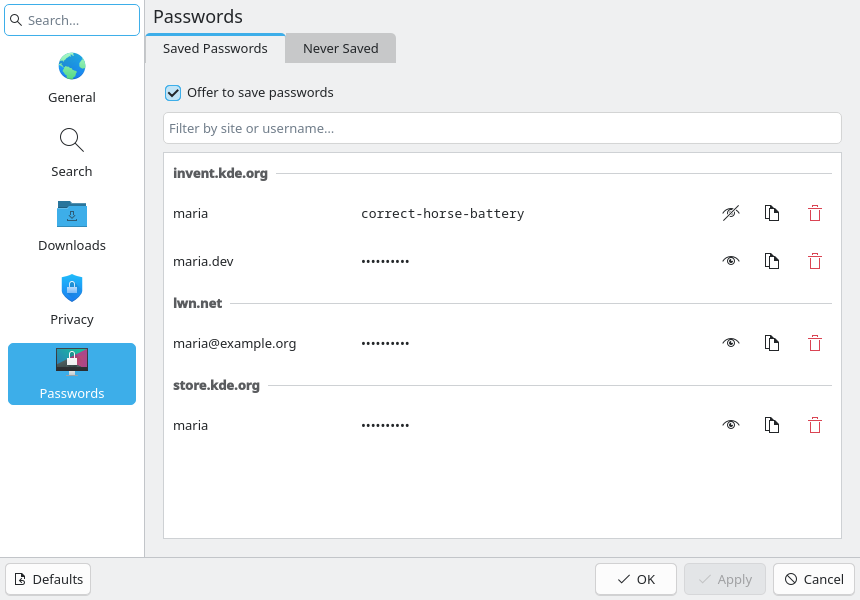
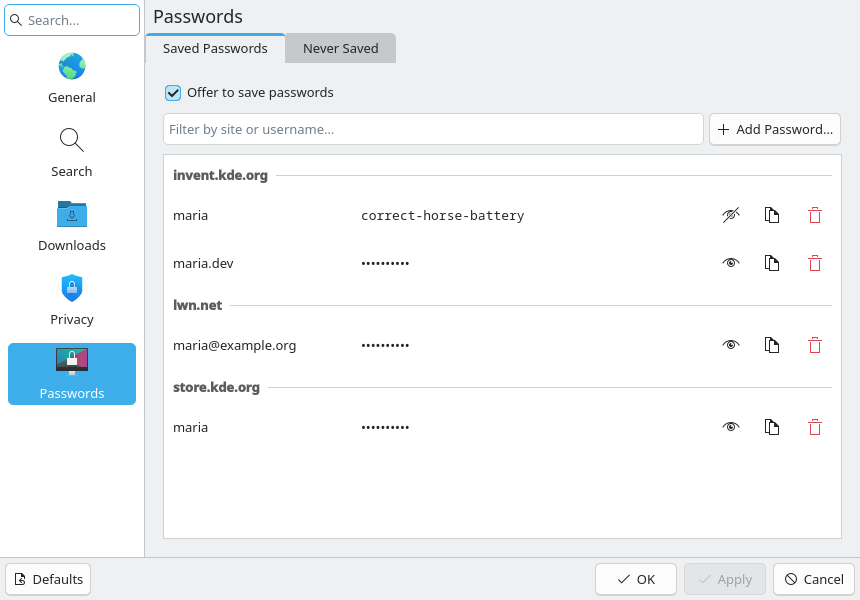
docs: add prototypes for adding a password by hand (#102)

diff --git a/prototypes/common/SettingsDialogMock.qml b/prototypes/common/SettingsDialogMock.qml
@@ -13,6 +13,10 @@ Rectangle {
     property int innerTab: 0      // tabs of the General and Passwords pages
     property bool withPasswords: false // show the Passwords page added by #21
     property bool walletDenied: false  // #21: KWallet disabled / access denied
+    property bool passwordsEmpty: false // #102: no saved passwords (placeholder)
+    property string passwordsFilter: "" // #102: text in the filter field
+    property bool addPasswordDialog: false // #102: the "Add Password" dialog is open
+    property bool addPasswordDuplicate: false // #102: the dialog's login is already saved
     property string search: ""
     property bool modified: false // pending changes → Apply enabled
 
@@ -189,10 +193,20 @@ Rectangle {
                             actions: [ Kirigami.Action { text: "Try Again"; icon.name: "view-refresh" } ]
                         }
                         CheckBox { text: "Offer to save passwords"; checked: true; enabled: !root.walletDenied }
-                        TextField {
+                        RowLayout {
                             Layout.fillWidth: true
-                            enabled: !root.walletDenied
-                            placeholderText: "Filter by site or username…"
+                            spacing: Kirigami.Units.smallSpacing
+                            TextField {
+                                Layout.fillWidth: true
+                                enabled: !root.walletDenied
+                                placeholderText: "Filter by site or username…"
+                                text: root.passwordsFilter
+                            }
+                            Button {
+                                text: "Add Password…"
+                                icon.name: "list-add"
+                                enabled: !root.walletDenied
+                            }
                         }
                         Frame {
                             Layout.fillWidth: true
@@ -205,10 +219,24 @@ Rectangle {
                                 color: Kirigami.Theme.backgroundColor
                                 border.color: Kirigami.ColorUtils.linearInterpolation(Kirigami.Theme.backgroundColor, Kirigami.Theme.textColor, 0.2)
                             }
+                            Kirigami.PlaceholderMessage {
+                                anchors.centerIn: parent
+                                width: parent.width - Kirigami.Units.gridUnit * 4
+                                visible: !root.walletDenied && root.passwordsEmpty
+                                icon.name: root.passwordsFilter.length ? "edit-none" : "dialog-password"
+                                text: root.passwordsFilter.length
+                                      ? "No saved passwords match “" + root.passwordsFilter + "”"
+                                      : "No saved passwords"
+                                explanation: root.passwordsFilter.length
+                                             ? ""
+                                             : "Kondor offers to save a password when you log in to a site. You can also add one here."
+                                helpfulAction: root.passwordsFilter.length ? null : addAction
+                                Kirigami.Action { id: addAction; text: "Add Password…"; icon.name: "list-add" }
+                            }
                             ListView {
                                 anchors.fill: parent
                                 clip: true
-                                visible: !root.walletDenied
+                                visible: !root.walletDenied && !root.passwordsEmpty
                                 section.property: "site"
                                 section.delegate: Kirigami.ListSectionHeader {
                                     required property string section
@@ -293,6 +321,50 @@ Rectangle {
             Button { text: "OK"; icon.name: "dialog-ok"; highlighted: true }
             Button { text: "Apply"; icon.name: "dialog-ok-apply"; enabled: root.modified }
             Button { text: "Cancel"; icon.name: "dialog-cancel" }
+        }
+    }
+
+    // ── Add Password dialog (#102) ──────────────────────────────────────
+    Dialog {
+        id: addDialog
+        parent: root
+        anchors.centerIn: parent
+        width: Kirigami.Units.gridUnit * 24
+        modal: true
+        dim: true
+        visible: root.addPasswordDialog
+        title: "Add Password"
+        standardButtons: Dialog.Save | Dialog.Cancel
+
+        contentItem: ColumnLayout {
+            spacing: Kirigami.Units.largeSpacing
+
+            Kirigami.FormLayout {
+                Layout.fillWidth: true
+                TextField {
+                    Kirigami.FormData.label: "Website:"
+                    Layout.fillWidth: true
+                    placeholderText: "https://example.com"
+                    text: "https://invent.kde.org"
+                }
+                TextField {
+                    Kirigami.FormData.label: "Username:"
+                    Layout.fillWidth: true
+                    text: root.addPasswordDuplicate ? "maria" : "maria.review"
+                }
+                Kirigami.PasswordField {
+                    Kirigami.FormData.label: "Password:"
+                    Layout.fillWidth: true
+                    text: "correct-horse-battery"
+                }
+            }
+
+            Kirigami.InlineMessage {
+                Layout.fillWidth: true
+                visible: root.addPasswordDuplicate
+                type: Kirigami.MessageType.Warning
+                text: "A password for maria on invent.kde.org is already saved. Saving replaces it."
+            }
         }
     }
 }

diff --git a/prototypes/102-passwords-add.qml b/prototypes/102-passwords-add.qml
@@ -1,0 +1,5 @@
+// #102 Add a password by hand — the "Add Password" dialog over Settings → Passwords.
+import QtQuick
+import "common"
+
+SettingsDialogMock { withPasswords: true; page: 4; innerTab: 0; passwordsEmpty: false; addPasswordDialog: true }

diff --git a/prototypes/102b-passwords-add-duplicate.qml b/prototypes/102b-passwords-add-duplicate.qml
@@ -1,0 +1,5 @@
+// #102 Add a password by hand — the dialog when the login is already saved.
+import QtQuick
+import "common"
+
+SettingsDialogMock { withPasswords: true; page: 4; innerTab: 0; addPasswordDialog: true; addPasswordDuplicate: true }

diff --git a/prototypes/102c-passwords-empty.qml b/prototypes/102c-passwords-empty.qml
@@ -1,0 +1,5 @@
+// #102 Settings → Passwords with no saved passwords (placeholder with an Add action).
+import QtQuick
+import "common"
+
+SettingsDialogMock { withPasswords: true; page: 4; innerTab: 0; passwordsEmpty: true }

diff --git a/prototypes/102d-passwords-no-match.qml b/prototypes/102d-passwords-no-match.qml
@@ -1,0 +1,5 @@
+// #102 Settings → Passwords when the filter matches nothing.
+import QtQuick
+import "common"
+
+SettingsDialogMock { withPasswords: true; page: 4; innerTab: 0; passwordsEmpty: true; passwordsFilter: "df" }

diff --git a/prototypes/README.md b/prototypes/README.md
@@ -59,6 +59,7 @@ Tips when editing:
 | #24 Per-site zoom | `24-site-zoom.qml` |
 | #43 New Tab page | `43-new-tab-page.qml`, `43b-new-private-tab-page.qml`, `03-settings.qml` ("Home Page", "New Tabs") |
 | #93 Main menu (target layout) | `00-main-menu.qml`, `93b-main-menu-history.qml`, `93c-main-menu-tools.qml`, `93d-main-menu-help.qml` (shared mock in `common/MainMenuMock.qml`; `common/SubmenuMock.qml` draws an open submenu) |
+| #102 Add a password by hand | `102-passwords-add.qml`, `102b-passwords-add-duplicate.qml`, `102c-passwords-empty.qml`, `102d-passwords-no-match.qml` (in `common/SettingsDialogMock.qml`) |
 
 Issues without UI (#10 default browser, #15 single instance, #19 translations, #25 Flatpak,
 #26 tests) have no prototype.
